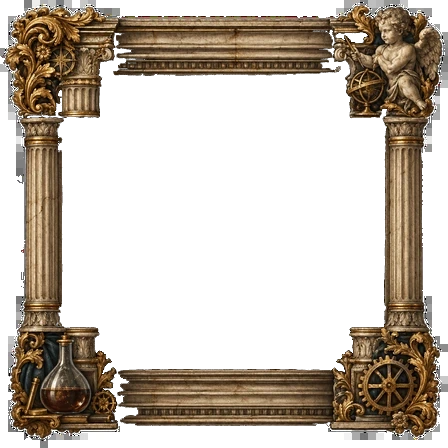
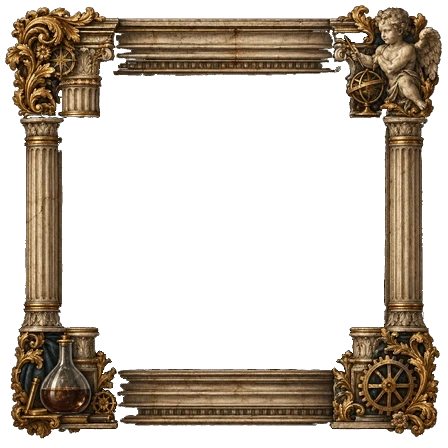
fix(build): a frame keeps its own transparency when its ground is cleared; science-border without its halo
Cleared by warmth, a picture was made opaque first, which suits one with no
transparency at all but turned what was clear in science-border - white
underneath, as a saving leaves it - into white blocks in its corner and a
light halo round its outline. A picture clear round its frame keeps its own
transparency now, whichever background clears it: 2200 near-white pixels
round its edge down to 5, and the other borders remade unchanged.

diff --git a/scripts/test/nineSliceCuts.test.ts b/scripts/test/nineSliceCuts.test.ts
@@ -4,6 +4,7 @@ import { describe, it } from 'node:test';
 import type { Rgba } from '../lib/border.ts';
 import { cutsFromEdges, linesIn, tilesAt } from '../lib/nineSlice/cuts.ts';
 import {
+  asGiven,
   clearBackground,
   isClearRound,
   opaque,
@@ -159,6 +160,30 @@ describe('what a frame stands on', () => {
 
   it('keeps everything of a frame that stands on nothing', () => {
     assert.equal(clearBackground(onChecks, 'none'), onChecks);
+  });
+
+  it('keeps a picture’s own transparency when it is cleared by warmth, whatever colour lies under it', () => {
+    // Clear round a gilt ring, the clear pixels white underneath, as a saving often leaves them.
+    const clearOnWhite = picture(40, 40, (x, y) =>
+      Math.min(x, y, 39 - x, 39 - y) < 6 ? [255, 255, 255, 0] : [190, 140, 70, 255],
+    );
+    const cleared = clearBackground(asGiven(clearOnWhite, { warmth: 30, darker: 110 }), {
+      warmth: 30,
+      darker: 110,
+    });
+    assert.equal(alphaAt(cleared, 1, 1), 0);
+    assert.equal(alphaAt(cleared, 20, 20), 255);
+    assert.equal(
+      alphaAt(
+        asGiven(
+          picture(4, 4, () => [9, 9, 9, 140]),
+          { warmth: 30 },
+        ),
+        1,
+        1,
+      ),
+      255,
+    );
   });
 
   it('makes a picture opaque that was only half transparent by a slip in saving it', () => {

diff --git a/scripts/nine-slice.ts b/scripts/nine-slice.ts
@@ -6,6 +6,7 @@ import { REPEATS } from './lib/border.ts';
 import type { BorderFile, Repeat, Rgba, Sides } from './lib/border.ts';
 import { cutsFromEdges, linesIn, tilesAt } from './lib/nineSlice/cuts.ts';
 import {
+  asGiven,
   backgroundText,
   clearBackground,
   DARK_GROUND,
@@ -228,7 +229,7 @@ async function make(name: string, picture: string, recipe: NineSliceRecipe, out:
     }
   }
   const given = await decode(picture);
-  const image = recipe.background === 'alpha' ? given : opaque(given);
+  const image = asGiven(given, recipe.background);
   const { columns, rows } = recipe as Required<Pick<NineSliceRecipe, 'columns' | 'rows'>>;
   const middle = recipe.middle === true;
   const frame = clearBackground(joined(image, columns, rows, !middle), recipe.background, !middle);

diff --git a/scripts/lib/nineSlice/background.ts b/scripts/lib/nineSlice/background.ts
@@ -92,6 +92,15 @@ export function opaque(image: Rgba): Rgba {
   return { width: image.width, height: image.height, data };
 }
 
+/**
+ * The picture to clear: its own transparency kept when it has some, because what is clear in it is clear
+ * whatever colour the saving left there - often white - and made opaque only when it has none worth the
+ * name, which is then a slip in saving it.
+ */
+export function asGiven(image: Rgba, background: Background): Rgba {
+  return background === 'alpha' || isClearRound(image) ? image : opaque(image);
+}
+
 /** A piece left standing that is less than this share of the largest is a speck of what it stood on. */
 const ISLAND = 0.02;
 

diff --git a/.claude/skills/nine-slice/SKILL.md b/.claude/skills/nine-slice/SKILL.md
@@ -51,7 +51,9 @@ Then decide four things, each an option of the tool:
   Choose the number between the frame's lowest and the ground's highest. Where the frame holds something
   as cool as its ground but lighter - pale clouds on a night sky - say how dark the ground is as well,
   `30,dark:110`, and only what is both cooler and darker than that is cleared. `auto` chooses that itself
-  for a picture whose edge is a dark, cool ground, and says so. Whatever the picture's edge or its middle
+  for a picture whose edge is a dark, cool ground, and says so. A picture with transparency of its own keeps it
+  whichever is chosen: what is clear in it stays clear, whatever colour a saving left under it - often
+  white, which made opaque would stand round the frame as a halo. Whatever the picture's edge or its middle
   can reach through the ground is cleared; a dark crevice inside the frame that neither reaches is kept, as
   the frame's own shadow; a fleck left standing on its own, under a fiftieth the size of the frame, is
   cleared too. **A border holds its frame and nothing else**: what it stood on, outside it and inside
